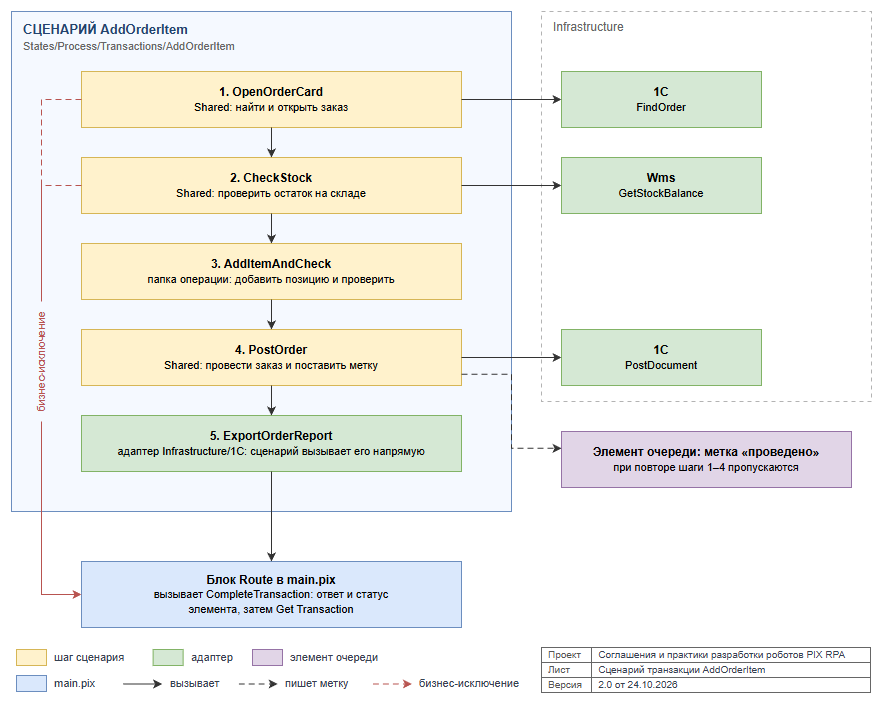
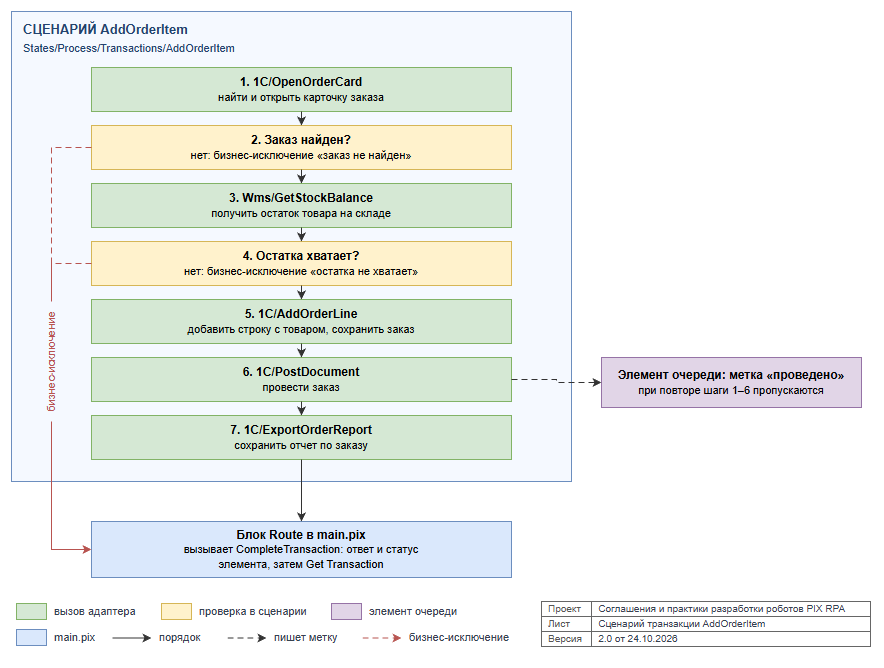
docs: template.md, граница States и Infrastructure, сценарий AddOrderItem по шагам таблицей и схемой

diff --git a/docs/1-project/template.md b/docs/1-project/template.md
@@ -22,11 +22,13 @@
 ![Слои проекта робота: main.pix вызывает States, States вызывает Infrastructure и Helpers, Infrastructure работает с внешними системами](../../images/template/TEMPLATE-01-architecture.png)
 
 - `main.pix`: состояния и переходы ([TEMPLATE-02](#template-02-используйте-состояния-state-machine-по-назначению))
-- `States`: бизнес-логика, папка на состояние
-- `Infrastructure`: работа с внешними системами, папка на систему. Адаптер выполняет действие, а что делать с результатом, решает `States`
+- `States`: бизнес-логика, то есть что и когда делать: проверки, решения, порядок шагов. Папка на состояние
+- `Infrastructure`: как сделать во внешней системе: найти, открыть, заполнить, провести. Папка на систему. Адаптер не знает, зачем его вызвали: он возвращает результат, а решает `States`
 - `Helpers`: универсальные скрипты, чаще всего чистые функции. Не обращаются к внешним системам и не содержат бизнес-правил
 - `Common`: ресурсы робота, шаблоны писем и отчетов ([PROJECT-02](project.md#project-02-храните-ресурсы-робота-в-самом-проекте))
 - `Tests`: модульные и интеграционные тесты ([TEST-01](../2-develop/test.md#test-01-покрывайте-тестами-скрипты-с-бизнес-логикой-и-преобразованием-данных))
+
+**Любое действие в интерфейсе или API системы лежит в `Infrastructure`, даже если оно нужно один раз.** Проверьте себя: скрипт кликает в системе или читает ее? Тогда это `Infrastructure`. Скрипт сравнивает, выбирает или выбрасывает бизнес-исключение? Тогда это `States`. Например, `1C/OpenOrderCard` открывает карточку заказа, а если заказа нет, возвращает «не найден». Бизнес-исключение «заказ не найден» выбрасывает сценарий. Разбор задачи по шагам есть в справке [«Сценарий транзакции»](#сценарий-транзакции-паттерн-transaction-script).
 
 Вызовы идут сверху вниз: `main.pix` вызывает `States`, `States` вызывает `Infrastructure` и `Helpers`, `Infrastructure` вызывает `Helpers`. Обратных вызовов нет.
 
@@ -41,7 +43,7 @@ Orders.ProcessOrderRequest
 │   ├───Process                 RunRequestScenario, CompleteTransaction, Transactions
 │   └───EndProcess              только если завершение не помещается в контейнер main.pix
 ├───Infrastructure              работа с внешними системами, по папке на систему
-│   ├───1C                      Start1C, FindOrder, PostDocument
+│   ├───1C                      Start1C, OpenOrderCard, AddOrderLine, PostDocument, ExportOrderReport
 │   ├───PixMaster               GetQueueItem, AddResponseItem
 │   └───Wms                     GetStockBalance
 ├───Helpers                     ParseOrderNumber, KillProcess
@@ -167,42 +169,52 @@ Orders.ProcessOrderRequest
 
 Подходит, когда транзакция состоит из нескольких шагов, особенно если у робота несколько типов транзакций.
 
-Сценарий транзакции — короткий скрипт, который по порядку вызывает шаги. Каждый шаг лежит в отдельном скрипте, выполняет одно действие и возвращает результат. У каждого типа транзакции свой сценарий, и выбирается он в одном месте, в `RunRequestScenario`. Паттерн Transaction Script описан в каталоге Мартина Фаулера.
+Сценарий транзакции — короткий скрипт, который по порядку вызывает адаптеры и общие шаги, а между вызовами проверяет результат и принимает решения. У каждого типа транзакции свой сценарий, и выбирается он в одном месте, в `RunRequestScenario`. Паттерн Transaction Script описан в каталоге Мартина Фаулера.
 
 ```console
 States/Process
 ├───RunRequestScenario      выбор сценария по типу заявки
 ├───CompleteTransaction     ответ в очередь ответов, статус элемента входной очереди
 └───Transactions
-    ├───AddOrderItem        папка на тип транзакции: сценарий и его шаги
-    │   ├───AddOrderItem
-    │   └───AddItemAndCheck
+    ├───AddOrderItem        папка на тип транзакции
+    │   └───AddOrderItem    сценарий
+    ├───ChangeQuantity
+    │   └───ChangeQuantity
     ├───CancelOrder
     │   ├───CancelOrder
-    │   └───SelectCancellationReason
+    │   └───SelectCancellationReason   выбор причины отмены по правилам заказчика
     └───Shared              шаги, общие для нескольких типов
-        ├───OpenOrderCard
-        ├───CheckStock
-        └───PostOrder
+        └───CheckOrderEditable         заказ не отгружен и не закрыт
 ```
 
-Сценарий `AddOrderItem` из примера: `OpenOrderCard` → `CheckStock` → `AddItemAndCheck` → `PostOrder` → `1C/ExportOrderReport`.
+Сценарий `AddOrderItem` добавляет позицию в заказ. 1С к этому моменту уже открыта: ее запустил Init через `1C/Start1C`.
 
-![Сценарий AddOrderItem: пять шагов, адаптеры, которые они вызывают, выход в бизнес-исключение и метка в элементе очереди](../../images/template/template-scenario.png)
+| Шаг | Кто делает | Что происходит |
+|-----|------------|----------------|
+| 1 | `1C/OpenOrderCard` | Находит и открывает карточку заказа из заявки |
+| 2 | Сценарий | Заказа нет: бизнес-исключение «заказ не найден» |
+| 3 | `Wms/GetStockBalance` | Получает остаток товара на складе |
+| 4 | Сценарий | Остатка меньше, чем в заявке: бизнес-исключение «остатка не хватает» |
+| 5 | `1C/AddOrderLine` | Добавляет строку с товаром и количеством, сохраняет заказ |
+| 6 | `1C/PostDocument` | Проводит заказ. После этого сценарий ставит в элементе очереди метку «проведено» |
+| 7 | `1C/ExportOrderReport` | Сохраняет отчет по заказу |
+
+В сценарии нет ни одного клика: он вызывает адаптеры и принимает решения. Если поменяется форма заказа в 1С, правят `Infrastructure/1C`, а сценарий остается прежним.
+
+![Сценарий AddOrderItem: вызовы адаптеров, проверки сценария, выходы в бизнес-исключение и метка в элементе очереди](../../images/template/template-scenario.png)
 
 **Как делить на шаги:**
-- Шаг выполняет одно действие и называется глаголом: найти заказ, проверить остаток, провести заказ
-- Шаг получает данные через параметры и возвращает результат, а не читает переменные сценария
-- Шаг, нужный одному сценарию, лежит в папке этого типа транзакции, а нужный нескольким сценариям лежит в `Shared`
-- Если шагу хватает одного действия во внешней системе, сценарий вызывает адаптер `Infrastructure` напрямую, как `1C/ExportOrderReport`
-- Бизнес-исключение выбрасывает тот шаг, который нашел проблему: «заказ не найден», «остатка не хватает» ([ERROR-06](../2-develop/error.md#error-06-разделяйте-бизнес-исключения-и-технические-исключения))
-- Необратимое действие выносите в отдельный шаг и после него ставьте метку в элементе очереди ([QUEUE-10](../3-integrations/queue.md#queue-10-отмечайте-в-элементе-очереди-выполненные-необратимые-шаги))
+- Действия в системах сценарий выполняет через адаптеры `Infrastructure`, а проверки и решения держит у себя
+- Адаптер возвращает результат, а бизнес-исключение выбрасывает сценарий или общий шаг, который нашел проблему: «заказ не найден», «остатка не хватает» ([ERROR-06](../2-develop/error.md#error-06-разделяйте-бизнес-исключения-и-технические-исключения))
+- Проверка, нужная нескольким сценариям, лежит в `Shared`. Длинную проверку одного сценария вынесите в отдельный скрипт в папке этого типа транзакции, как `SelectCancellationReason`
+- Скрипт получает данные через параметры и возвращает результат, а не читает переменные сценария
+- После необратимого действия ставьте метку в элементе очереди ([QUEUE-10](../3-integrations/queue.md#queue-10-отмечайте-в-элементе-очереди-выполненные-необратимые-шаги))
 
 **Что это дает:**
-- Сценарий читается как ТЗ: ревьюер видит шаги процесса без кликов по интерфейсу
+- Сценарий читается как ТЗ: ревьюер видит шаги процесса и проверки без кликов по интерфейсу
 - По источнику исключения видно, на каком шаге упал робот ([ERROR-07](../2-develop/error.md#error-07-указывайте-источник-исключения))
-- Если изменился интерфейс 1С, правится один шаг
-- Шаг отлаживается и тестируется отдельно ([TEST-01](../2-develop/test.md#test-01-покрывайте-тестами-скрипты-с-бизнес-логикой-и-преобразованием-данных))
+- Если изменилась форма в 1С, правится адаптер в `Infrastructure/1C`, сценарий не меняется
+- Адаптеры и проверки отлаживаются и тестируются отдельно ([TEST-01](../2-develop/test.md#test-01-покрывайте-тестами-скрипты-с-бизнес-логикой-и-преобразованием-данных))
 
 ### Варианты процесса: стратегия
 

diff --git a/CHANGELOG.md b/CHANGELOG.md
@@ -24,7 +24,7 @@
 - Правило оформления примеров: скриншоты из PIX Studio вместо C#-вставок, чтобы новым коллегам было понятно, как правило выглядит в Studio (CONTRIBUTING)
 
 ### Изменено
-- template.md называется «Шаблоны роботов на State Machine» и описывает, как обычно устроены шаблоны команды, без ссылки на шаблон PIX Studio; из справки «Плюсы и минусы State Machine» в project.md «Универсальный шаблон» тоже убран. Вступление объясняет, что схемы, дерево папок и таблицы файла показывают одного робота `Orders.ProcessOrderRequest`. Робот из примера не пишет статус в БД: ответ чат-боту уходит в очередь ответов, статус заявки хранит элемент входной очереди. Из TEMPLATE-03 убрана проверка БД, пример в «Почему» переведен на очередь ответов. TEMPLATE-02 начинается с оговорки: состояний бывает три, пять или десять, правило описывает типовой шаблон из четырех состояний (REFramework и аналоги), а для других шаблонов действует тот же принцип
+- template.md называется «Шаблоны роботов на State Machine» и описывает, как обычно устроены шаблоны команды, без ссылки на шаблон PIX Studio; из справки «Плюсы и минусы State Machine» в project.md «Универсальный шаблон» тоже убран. Вступление объясняет, что схемы, дерево папок и таблицы файла показывают одного робота `Orders.ProcessOrderRequest`. TEMPLATE-01 проводит границу между `States` и `Infrastructure`: адаптер отвечает «как сделать в системе», сценарий «что и когда делать»; любое действие в интерфейсе или API системы лежит в `Infrastructure`, даже разовое. Справка о сценарии разбирает `AddOrderItem` по шагам таблицей и схемой: адаптеры открывают заказ, получают остаток, добавляют строку и проводят заказ, сценарий проверяет результат и выбрасывает бизнес-исключения. Робот из примера не пишет статус в БД: ответ чат-боту уходит в очередь ответов, статус заявки хранит элемент входной очереди. Из TEMPLATE-03 убрана проверка БД, пример в «Почему» переведен на очередь ответов. TEMPLATE-02 начинается с оговорки: состояний бывает три, пять или десять, правило описывает типовой шаблон из четырех состояний (REFramework и аналоги), а для других шаблонов действует тот же принцип
 - TEMPLATE-01 описывает слои по назначению кода: переходы, бизнес-логика, адаптеры внешних систем, универсальные скрипты. `Helpers` это универсальные скрипты, не привязанные к состоянию или системе, чаще всего чистые функции. Правило начинается с идеи: не складывать скрипты одной кучей в корень проекта; переходы остаются в `main.pix`, по папкам раскладываются скрипты. Таблица слоев заменена списком «папка: роль», матрица вызовов одной фразой, дерево проекта сокращено до слоев, таблица «Куда положить скрипт» одной фразой. Сокращение ШАР убрано. В TEMPLATE-02 ответ и статус элемента пишет `CompleteTransaction`, его вызывает блок `Route`. Короткое состояние, до 1–5 строк кода, остается в блоке `main.pix` без папки; End Process обычно остается контейнером в `main.pix` без отдельного скрипта и try/catch, сложное завершение выносится в `States/EndProcess` (имя папки в NAMING-02). На схеме слоев четыре состояния и пометка о контейнере End Process
 - Схемы template.md: схема слоев нарисована заново (`States`, `Infrastructure`, `Helpers` с вызовами из `States` и `Infrastructure`), на схеме состояний «Запуск робота» и `CompleteTransaction`, на схеме сценария все шаги желтые, метка элемента очереди вынесена из `Infrastructure`. В CONTRIBUTING шаг сценария всегда цвета бизнес-логики. Штамп всех листов: «Соглашения и практики разработки роботов PIX RPA»
 - Заголовок README: «Соглашения и практики разработки роботов PIX RPA» вместо «PIX RPA Development Conventions», в описании сказано, что в репозитории и правила, и справки
